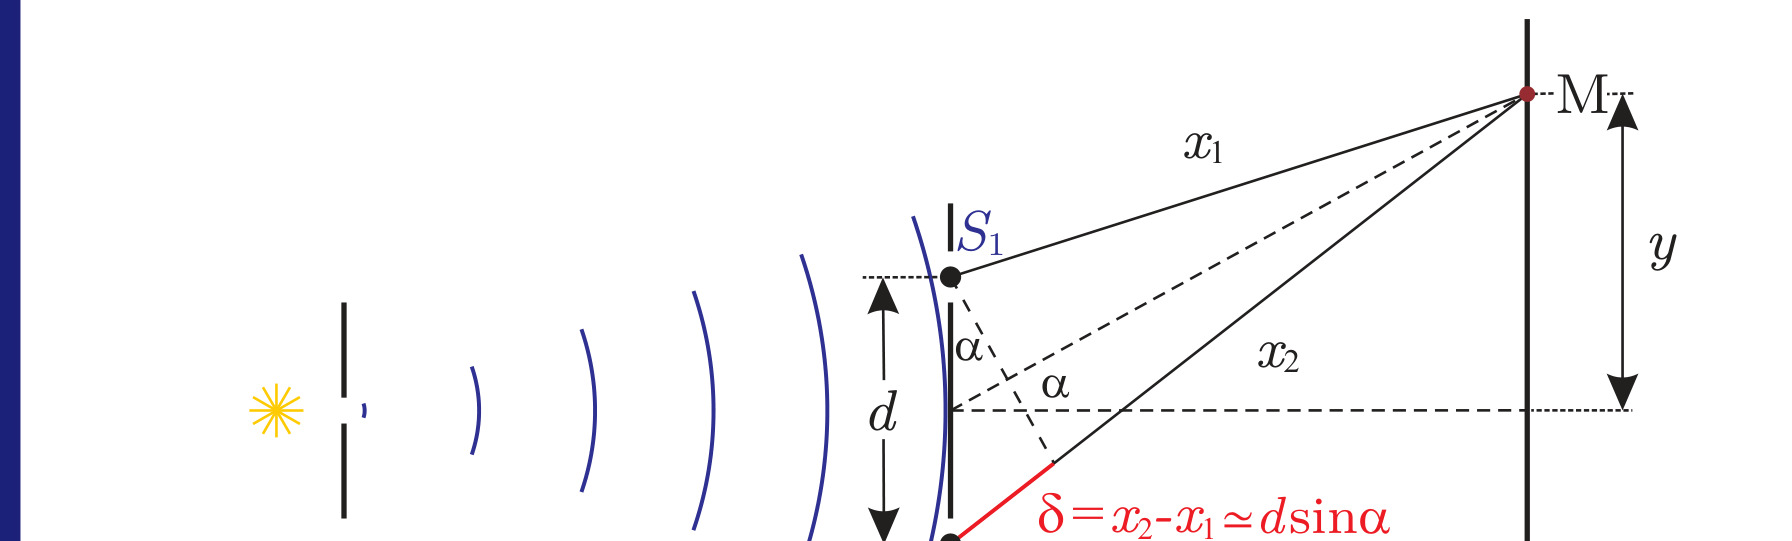
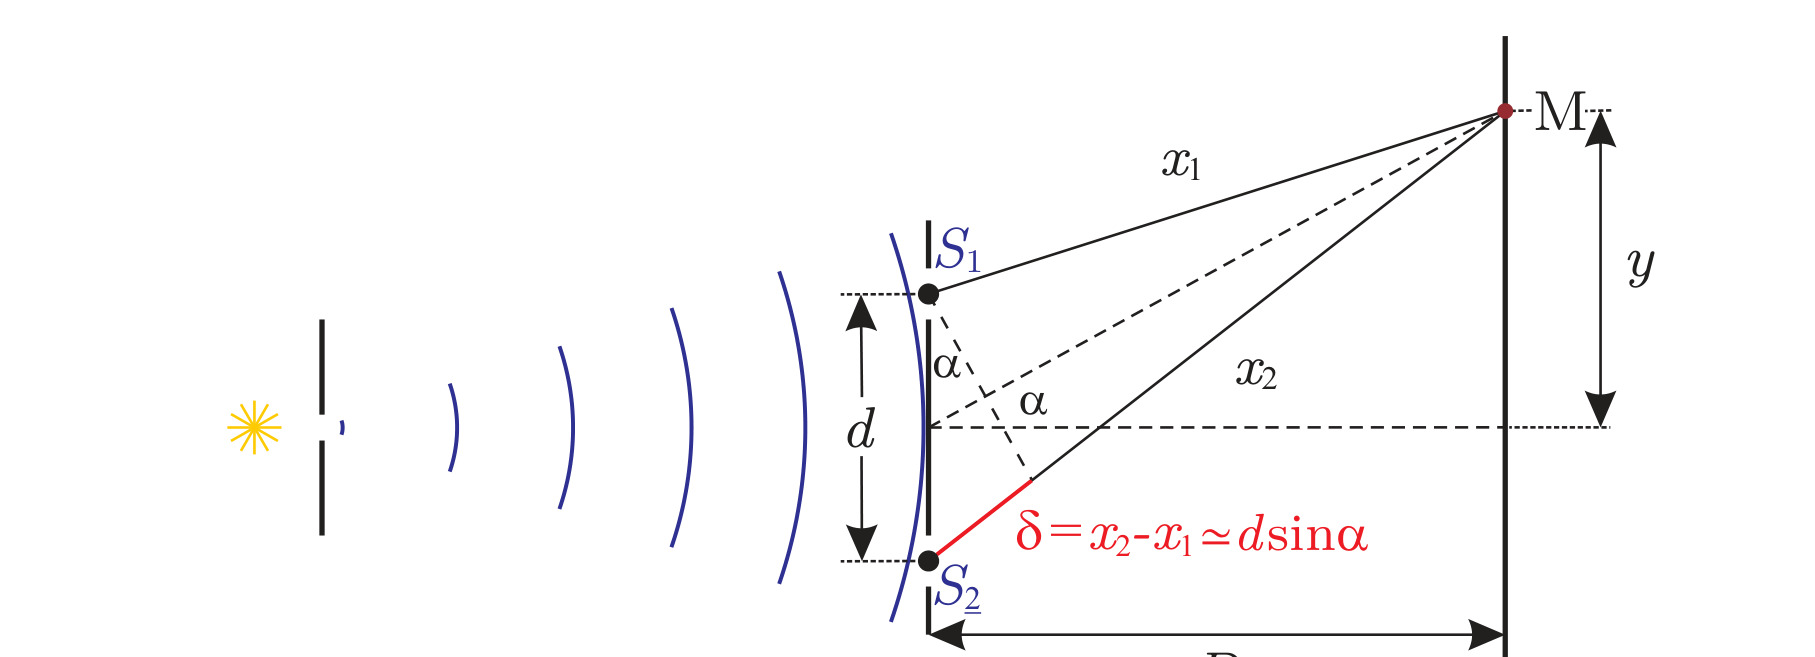
Optika: kompletni sociva, Jang, resetka (cele); cache v=6

diff --git a/data.js b/data.js
@@ -1120,7 +1120,7 @@ const TOPICS = [T_l6, T_l7, T_l8, T_l9, T_l10];
 (function(){
   var l8 = TOPICS.find(function(t){return t.id==='l8';});
   if(!l8) return;
-  var _f = function(s,c){return '<figure class="figure"><img src="'+s+'?v=5" alt="'+c+'"><figcaption>'+c+'</figcaption></figure>';};
+  var _f = function(s,c){return '<figure class="figure"><img src="'+s+'?v=6" alt="'+c+'"><figcaption>'+c+'</figcaption></figure>';};
 
   var idx = l8.sections.findIndex(function(s){var h=s.h||s.title||s.name||'';return h.indexOf('Disperzija')>=0;});
   if(idx<0) idx = l8.sections.length-1;